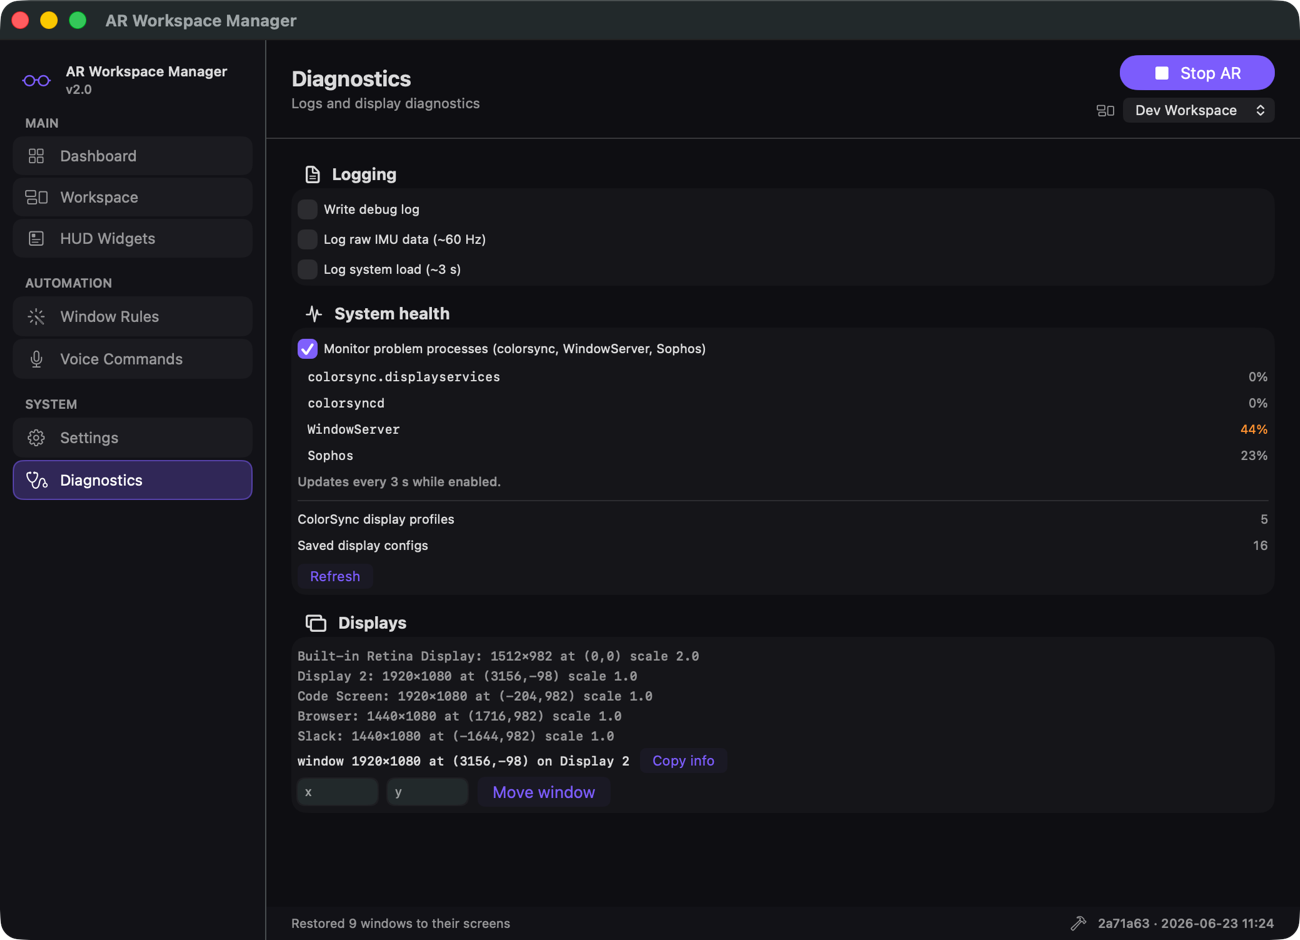
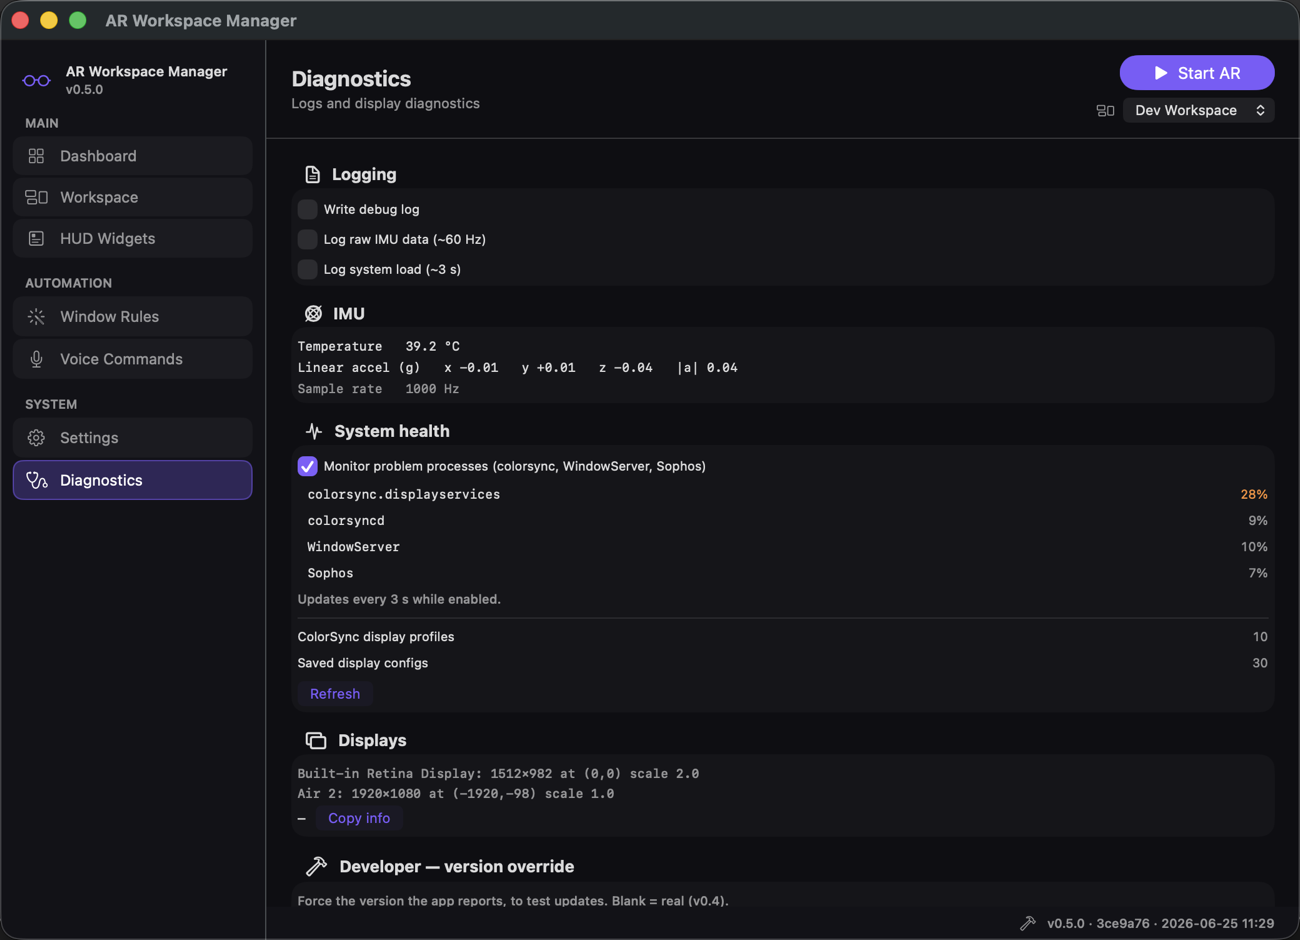
docs: refresh README and screenshots for V0.5.0
- New dashboard/workspace/HUD/diagnostics/settings screenshots showing the
  glasses-model KPI, brightness card, AR-gated quick actions, physical-monitor
  placement under virtual screens, calendar alarm AR-gating, and Focus-exit options.
- README: glasses model on connect, physical monitors in every workspace, Focus-exit
  options, configurable capture fps, calendar alarms gated to AR, ⌃⌥B recalibrate, and
  a note that shortcuts are disabled until AR starts (except Help/Quit/Start-Stop/Recalibrate).

diff --git a/README.md b/README.md
@@ -19,7 +19,7 @@ onto them — all rendered into the glasses with low-latency head tracking.
 > - The One Pro's IMU sits tilted in the frame; the app corrects for it automatically. The Eye
 >   accessory's 6DoF is computed on-chip and isn't exposed to the host, so tracking here is 3DoF.
 
-![AR Workspace Manager for XREAL](assets/hero.png?v=2)
+![AR Workspace Manager for XREAL](assets/hero.png?v=3)
 
 ---
 
@@ -50,7 +50,8 @@ The app asks for these the first time each is needed (you can manage them under
 
 ## Quick start
 
-1. **Connect** the glasses — the **Dashboard** shows *Connected* with live head tracking.
+1. **Connect** the glasses — the **Dashboard** shows the connected model (e.g. *One Pro*, *Air 2*)
+   with live head-tracking readouts.
 2. Click **Start AR** (top bar, or ⌃⌥S). Your screens appear floating in front of you.
 3. Open the **Workspace** page and click **Add Display** to create virtual monitors at the
    resolution you choose (it defaults to your main display's resolution). Each one is a *real* macOS
@@ -61,12 +62,12 @@ The app asks for these the first time each is needed (you can manage them under
 5. **Recenter** any time with **⌃⌥Space** so the layout sits straight ahead of you.
 6. **Stop AR** with **⌃⌥Esc** (or the top bar).
 
-![Quick start](assets/demo.gif?v=2)
+![Quick start](assets/demo.gif?v=3)
 
 Your layout is saved automatically. Create multiple **workspaces** for different setups and switch
 between them from the top bar.
 
-![Workspace layout editor](assets/workspace-editor.png?v=2)
+![Workspace layout editor](assets/workspace-editor.png?v=3)
 
 ## What it does
 
@@ -75,36 +76,40 @@ between them from the top bar.
 - Anchored (world-fixed) or floating (head-locked) placement; flat or curved screens; a wide-canvas
   mode that wraps all screens into one continuous curved surface
 - Named, saved workspaces; per-screen backgrounds (colour / image / see-through)
-- Mirror a virtual screen to a physical monitor (or vice-versa); real monitors auto-appear for
-  positioning
+- Mirror a virtual screen to a physical monitor (or vice-versa)
+- Every workspace always includes your physical monitors as layout references, so the editor knows
+  where the real screens sit; template workspaces place them centred beneath the virtual screens
 
 **Head tracking & view**
 - 3DoF head tracking with motion prediction and adaptive smoothing for low perceived latency
-- **Focus mode** (⌃⌥F) to blow the screen you're looking at up to fill your view
+- **Focus mode** (⌃⌥F) to blow the screen you're looking at up to fill your view (exit with ⌃⌥F, or
+  optionally a single Esc or double-tap Esc — your choice in Settings → General)
 - **Passthrough** (⌃⌥V) to hide the screens and see the room (HUD stays)
 - Gaze tracking, **find-my-cursor** (⌃⌥C), **move-cursor-to-gaze** (⌃⌥X), and
   **move-window-to-the-screen-you're-looking-at** (⌃⌥W)
 
 **HUD widgets** (head-locked, optional)
 - Clock, battery, **Slack** unreads, **GitHub** PR-triage counts, **Google Calendar** agenda with
-  **meeting alarms**
+  **meeting alarms** (shown centre-FOV while AR runs; optionally also as a desktop panel when AR is off)
 - Reusable HUD profiles; group widgets into stacks; per-widget styling
 
-![HUD widgets](assets/hud-widgets.png?v=2)
+![HUD widgets](assets/hud-widgets.png?v=3)
 
 **Glasses & capture**
 - Brightness and refresh-rate (60/72/90/120 Hz) control; quality settings (anti-aliasing,
   sharpening, supersampling)
 - Stereo side-by-side (experimental) with IPD adjustment
+- Configurable screen-capture frame rate (30 / 60 / 120 fps) under Settings → Performance
 - **Screenshot** (⌃⌥P) and **record** (⌃⌥R) the glasses view, with mic mute (⌃⌥M)
 
 ## Keyboard shortcuts
 
 | Shortcut | Action |
 |----------|--------|
-| ⌃⌥Space | Recenter the view |
 | ⌃⌥S | Start / stop AR |
 | ⌃⌥Esc | Stop AR |
+| ⌃⌥B | Recalibrate drift (hold the glasses still ~15s) |
+| ⌃⌥Space | Recenter the view |
 | ⌃⌥F | Focus the screen you're looking at (toggle) |
 | ⌃⌥V | Passthrough — hide / show the screens (HUD stays) |
 | ⌃⌥I | Show / hide the HUD widgets |
@@ -120,6 +125,11 @@ between them from the top bar.
 | ⌃⌥Q | Quit AR Workspace Manager |
 | ⌃⌥ + brightness keys | Dim / brighten the glasses |
 | Esc | Dismiss an active meeting alarm |
+
+> Most shortcuts (and their dashboard buttons) only do something while AR is running, so they're
+> disabled until you start AR. The exceptions, always available: **Help (⌃⌥H)**, **Quit (⌃⌥Q)**,
+> **Start/Stop AR (⌃⌥S)**, and **Recalibrate (⌃⌥B)**. Brightness control needs the Air series' MCU
+> channel — the One series has no host brightness channel, so adjust it on the glasses themselves.
 
 ## Notes & troubleshooting
 
@@ -145,7 +155,7 @@ between them from the top bar.
 - Virtual displays rely on macOS's private display APIs, so exact behaviour can vary between macOS
   releases.
 
-![Diagnostics — system health](assets/diagnostics.png?v=2)
+![Diagnostics — system health](assets/diagnostics.png?v=3)
 
 ---
 
